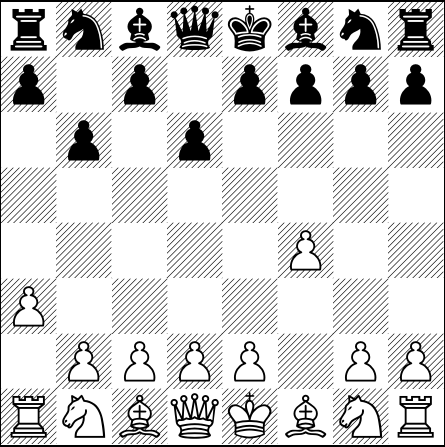
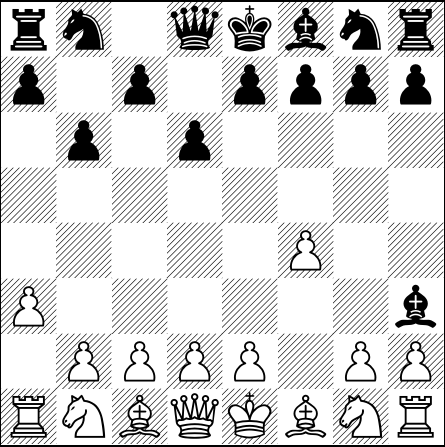
[automated] Regenerate text/pdf for chessboard

Changed region(s): [[0.8764, 0.6398, 0.9933, 0.7562], [0.2629, 0.0, 0.3798, 0.1163]]

diff --git a/default_filepath.tex b/default_filepath.tex
@@ -13,6 +13,6 @@
 \normalsize%
 \setchessboard{showmover=false}%
 \newgame%
-\fenboard{rnbqkbnr/p1p1pppp/1p1p4/8/5P2/P7/1PPPP1PP/RNBQKBNR b KQkq - 0 3}%
+\fenboard{rn1qkbnr/p1p1pppp/1p1p4/8/5P2/P6b/1PPPP1PP/RNBQKBNR w KQkq - 1 4}%
 \chessboard%
 \end{document}
